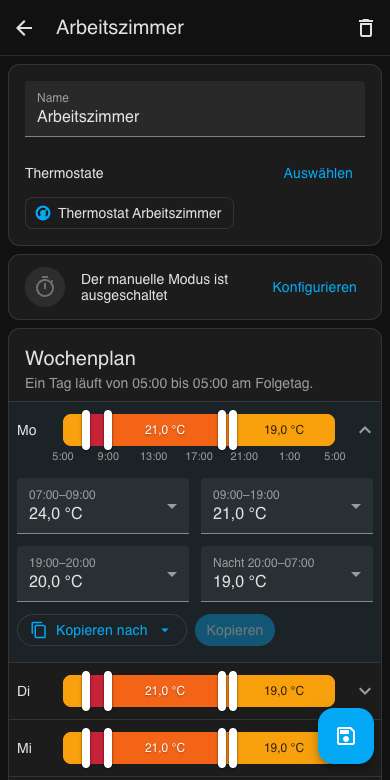
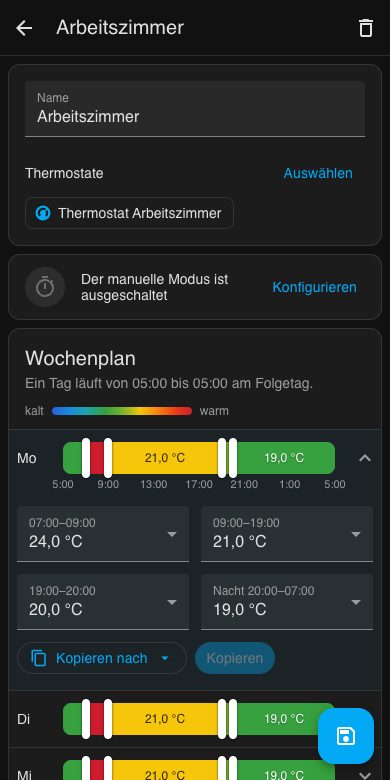
Farbskala für Temperaturen klarer abgestuft
Die Skala war auf Rot ausgelegt, dadurch lagen alle üblichen Heiztemperaturen
im Orange-Rot-Bereich. Jetzt verteilt sie sich wie eine Wärmekarte über den
Bereich, mit dem man tatsächlich heizt: blau bis 15 °C, türkis 17, grün 19,
hellgrün 20, gelb 21, orange 22, rot ab 24 °C.

- Schriftfarbe der Balken nach Helligkeit der Farbe statt nach Farbton
- Legende "kalt bis warm" im Wochenplan
- Regler "Alle Tage" neutral grau, damit er nicht wie eine Temperatur wirkt
- Screenshots erneuert, Version 0.2.1

diff --git a/custom_components/heatingpanel/frontend/heatingpanel-panel.js b/custom_components/heatingpanel/frontend/heatingpanel-panel.js
@@ -18,16 +18,19 @@ const MODE_ICONS = {
   vacation: "mdi:airplane",
 };
 const DEFAULT_BOUNDS = [120, 240, 600, 960];
-// Colour scale of the schedule bars as [°C, [hue, saturation, lightness]]:
-// frost blue, eco green, then amber, orange and red across the comfort range.
+// Colour scale of the schedule bars as [°C, [hue, saturation, lightness]], like a thermal map.
+// The hues are spread over the range people actually heat with, so 19 °C and 21 °C differ
+// clearly: blue up to 15 °C, teal 17, green 19, lime 20, yellow 21, orange 22, red from 24.
 const COLOR_STOPS = [
-  [8, [210, 75, 52]],
-  [13, [180, 65, 38]],
-  [16, [125, 45, 42]],
-  [18, [46, 92, 50]],
-  [20, [30, 95, 52]],
-  [22, [12, 85, 52]],
-  [24, [-8, 70, 46]],
+  [10, [220, 70, 50]],
+  [15, [205, 80, 48]],
+  [17, [180, 70, 38]],
+  [19, [125, 50, 42]],
+  [20, [88, 60, 44]],
+  [21, [48, 92, 50]],
+  [22, [30, 95, 52]],
+  [23, [12, 85, 50]],
+  [24, [-5, 75, 46]],
 ];
 
 const STRINGS = {
@@ -82,6 +85,8 @@ const STRINGS = {
     no_selection: "Choose",
     schedule_title: "Weekly schedule",
     schedule_hint: "A day runs from 05:00 to 05:00 the next day.",
+    cold: "cold",
+    warm: "warm",
     night: "Night",
     range_label: "{day}, {from} to {to}",
     expand: "Expand {day}",
@@ -161,6 +166,8 @@ const STRINGS = {
     no_selection: "Auswählen",
     schedule_title: "Wochenplan",
     schedule_hint: "Ein Tag läuft von 05:00 bis 05:00 am Folgetag.",
+    cold: "kalt",
+    warm: "warm",
     night: "Nacht",
     range_label: "{day}, {from} bis {to}",
     expand: "{day} aufklappen",
@@ -249,10 +256,24 @@ function tempColor(value) {
   return `hsl(${((h + 360) % 360).toFixed(0)} ${s.toFixed(0)}% ${l.toFixed(0)}%)`;
 }
 
-/** Dark text on the bright yellow part of the scale, white text everywhere else. */
+/** Dark text on bright colours, white text on dark ones (relative luminance of the colour). */
 function tempTextClass(value) {
-  const [h] = tempHsl(value);
-  return h >= 38 && h <= 100 ? "dark-text" : "";
+  const [h, s, l] = tempHsl(value);
+  const a = (s / 100) * Math.min(l / 100, 1 - l / 100);
+  const channel = (n) => {
+    const k = (n + ((h + 360) % 360) / 30) % 12;
+    const c = l / 100 - a * Math.max(-1, Math.min(k - 3, 9 - k, 1));
+    return c <= 0.03928 ? c / 12.92 : ((c + 0.055) / 1.055) ** 2.4;
+  };
+  const luminance = 0.2126 * channel(0) + 0.7152 * channel(8) + 0.0722 * channel(4);
+  return luminance > 0.3 ? "dark-text" : "";
+}
+
+/** Gradient across the scale for the legend, from frost to hot in the unit of the instance. */
+function legendGradient() {
+  const toUnit = (celsius) => (units.unit === "°F" ? (celsius * 9) / 5 + 32 : celsius);
+  const stops = COLOR_STOPS.map(([celsius], i) => `${tempColor(toUnit(celsius))} ${((i / (COLOR_STOPS.length - 1)) * 100).toFixed(0)}%`);
+  return `linear-gradient(90deg, ${stops.join(", ")})`;
 }
 
 /** Choice of temperatures for the selects, plus a stored value that is off the grid. */
@@ -679,7 +700,10 @@ class HeatingPanel extends HTMLElement {
       </div>
       ${this._renderOverrides(live)}
       <div class="card schedule">
-        <div class="card-header">${t("schedule_title")}<div class="card-subtitle">${t("schedule_hint")}</div></div>
+        <div class="card-header schedule-header">
+          <div>${t("schedule_title")}<div class="card-subtitle">${t("schedule_hint")}</div></div>
+          <div class="legend" aria-hidden="true"><span>${t("cold")}</span><span class="legend-bar" style="background:${legendGradient()}"></span><span>${t("warm")}</span></div>
+        </div>
         ${DAYS.map((day) => this._renderDay(day)).join("")}
         <div class="day all-days">
           <div class="day-row">
@@ -1276,6 +1300,9 @@ ha-icon { --mdc-icon-size: 24px; display: inline-flex; flex: none; }
 }
 .card-header { padding: 16px 16px 8px; font-size: 20px; font-weight: 400; line-height: 28px; }
 .card-subtitle { font-size: 14px; color: var(--hp-secondary); line-height: 20px; }
+.schedule-header { display: flex; flex-wrap: wrap; align-items: flex-end; justify-content: space-between; gap: 8px 16px; }
+.legend { display: flex; align-items: center; gap: 8px; font-size: 12px; color: var(--hp-secondary); line-height: 20px; }
+.legend-bar { width: 140px; height: 8px; border-radius: 4px; }
 .card-content { padding: 16px; }
 .card-actions {
   display: flex; flex-wrap: wrap; justify-content: flex-end; gap: 8px;
@@ -1448,11 +1475,12 @@ ha-icon { --mdc-icon-size: 24px; display: inline-flex; flex: none; }
 }
 @container (max-width: 52px) { .seg span { display: none; } }
 .seg.dark-text { color: rgba(0, 0, 0, 0.8); text-shadow: none; }
-.seg.w0 { background: color-mix(in srgb, var(--hp-primary) 18%, var(--hp-fill)); }
-.seg.w1 { background: color-mix(in srgb, var(--hp-primary) 32%, var(--hp-fill)); }
-.seg.w2 { background: color-mix(in srgb, var(--hp-primary) 46%, var(--hp-fill)); }
-.seg.w3 { background: color-mix(in srgb, var(--hp-primary) 60%, var(--hp-fill)); }
-.seg.w4 { background: color-mix(in srgb, var(--hp-primary) 74%, var(--hp-fill)); }
+/* neutral shades for the all days slider, so it is not mistaken for a temperature */
+.seg.w0 { background: color-mix(in srgb, var(--hp-text) 10%, var(--hp-card)); }
+.seg.w1 { background: color-mix(in srgb, var(--hp-text) 18%, var(--hp-card)); }
+.seg.w2 { background: color-mix(in srgb, var(--hp-text) 26%, var(--hp-card)); }
+.seg.w3 { background: color-mix(in srgb, var(--hp-text) 34%, var(--hp-card)); }
+.seg.w4 { background: color-mix(in srgb, var(--hp-text) 42%, var(--hp-card)); }
 .handle {
   position: absolute; top: 0; z-index: 2; width: 28px; height: 48px; margin-left: -14px;
   display: flex; align-items: center; justify-content: center;
